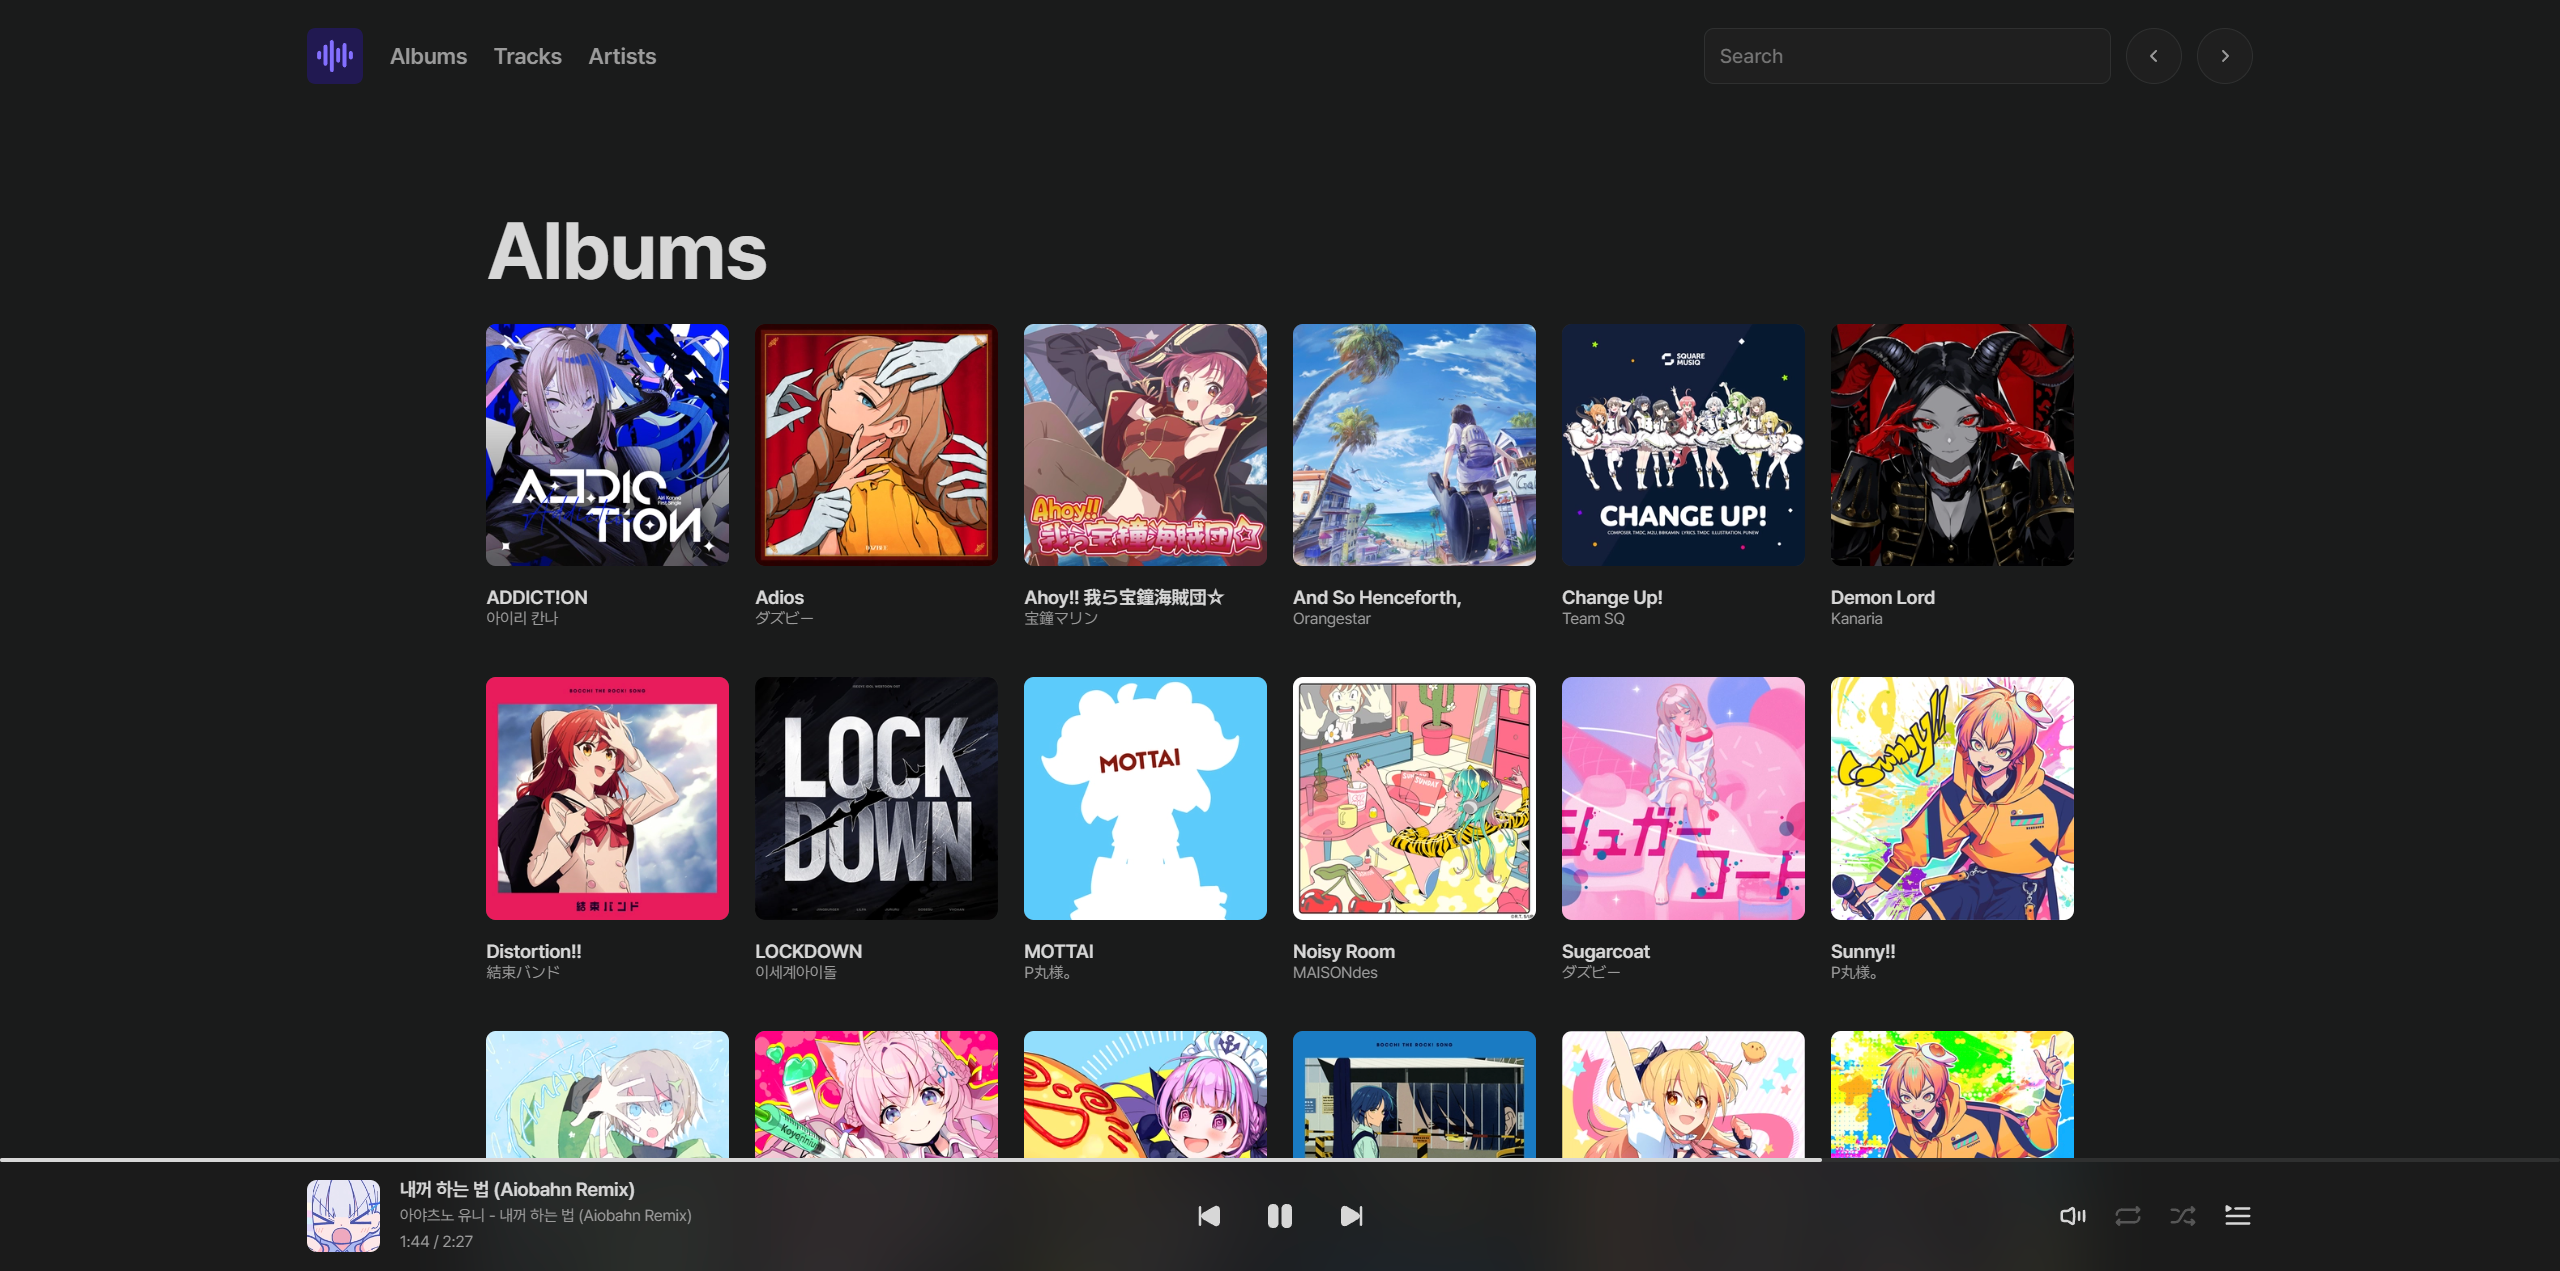
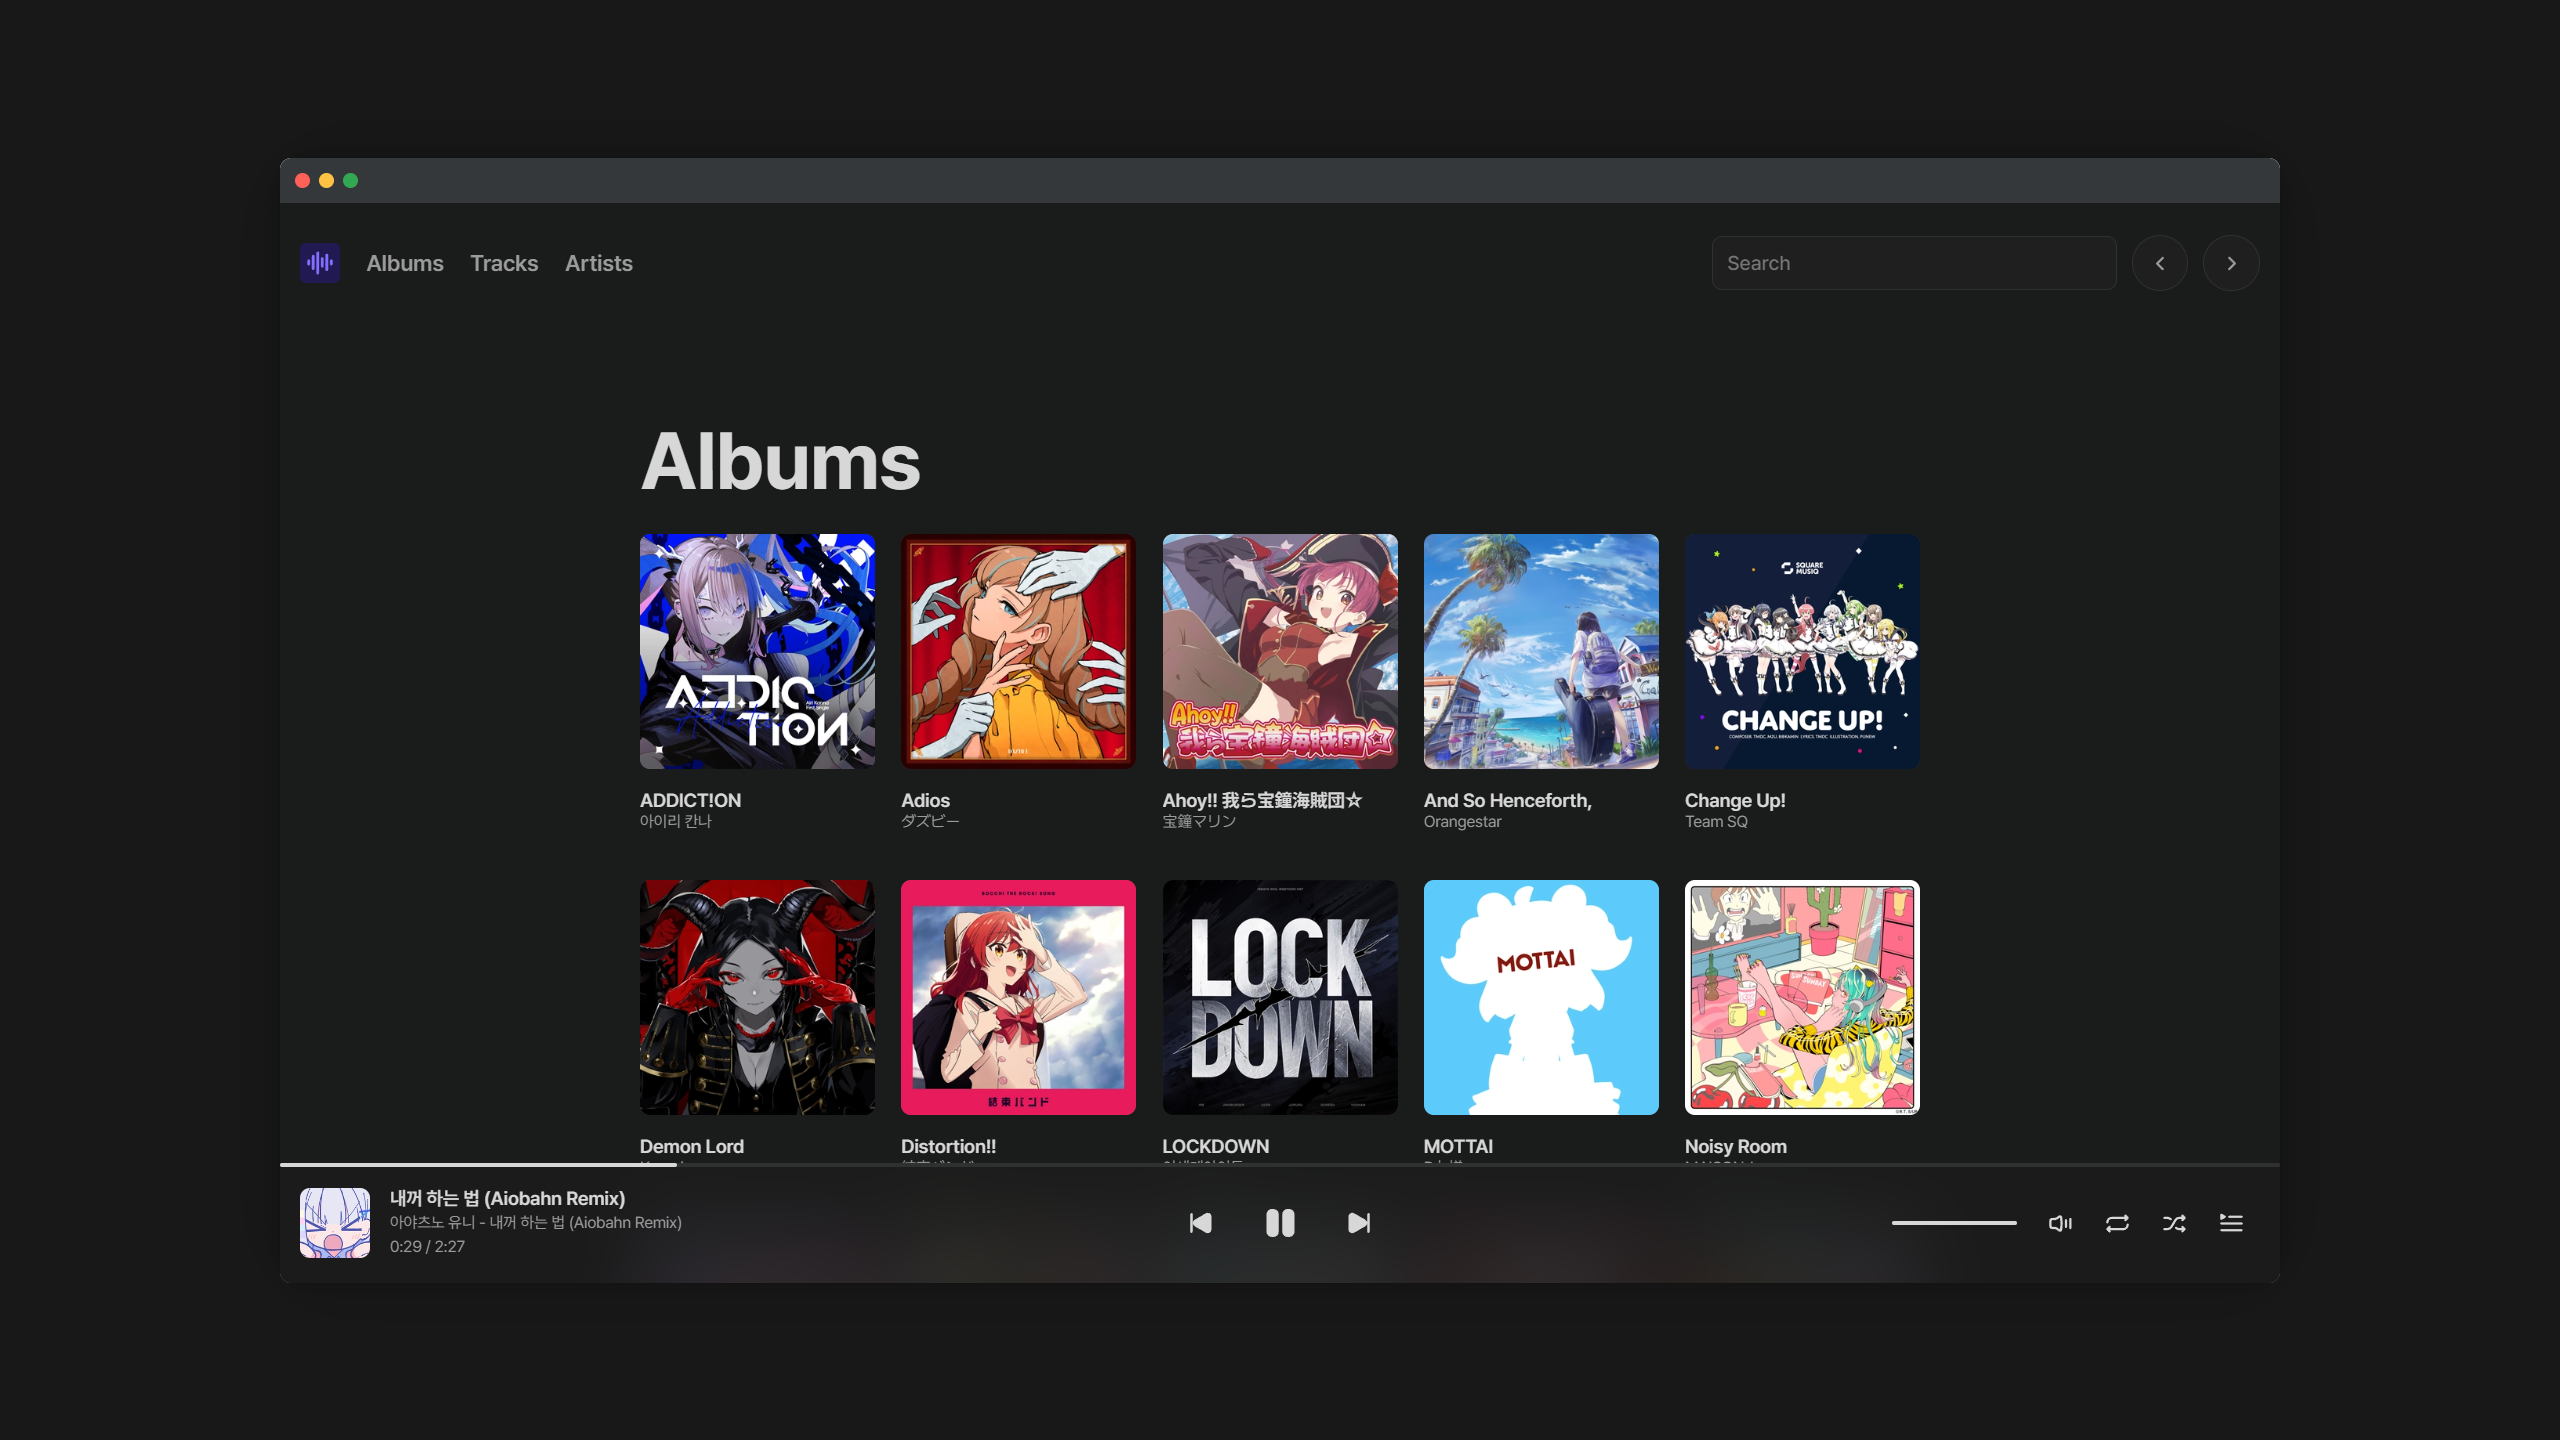
docs: update image

diff --git a/web/src/lib/components/Player.svelte b/web/src/lib/components/Player.svelte
@@ -187,7 +187,10 @@
         <img src="{imagepath}?size=128" class="player-area-1-img" alt="Front Cover" />
         <div class="player-area-1-trk">
           <span class="text-title">{$title ? $title : ""}</span>
-          <span class="text-description">{$artist ? $artist : ""}</span>
+          <span class="text-description">
+            {$artist ? $artist : ""}
+            - {$album ? $album : ""}
+          </span>
           <span class="text-description">{currentString} / {durationString}</span>
         </div>
       {/if}

diff --git a/web/src/routes/+layout.svelte b/web/src/routes/+layout.svelte
@@ -23,7 +23,7 @@
 
 	.content {
   	width: -webkit-fill-available;
-  	padding: 0 19%;
+  	padding: 0 18%;
   	margin-bottom: 180px;
 	}
 </style>

diff --git a/README.md b/README.md
@@ -1,5 +1,5 @@
 <div align="center">
-  <img src=".github/al.png">
+  <img src=".github/albums.png">
 </div>
 
 # mixel-music <img src="web/static/favicon.ico" width="36" align="right">
@@ -12,6 +12,7 @@
 * Since this project is part of my learning process, there may be many areas that need improvement.  
   * This is my first time using JavaScript / TypeScript and Svelte. Also, I have little experience doing backend development using Python.
 * As I'm focusing on preparing for the CSAT this year, more time will be dedicated to my studies. Therefore, the application's completion might face delays until at least the end of the year.
+<br>
 
 <!-- 
 ## Features
